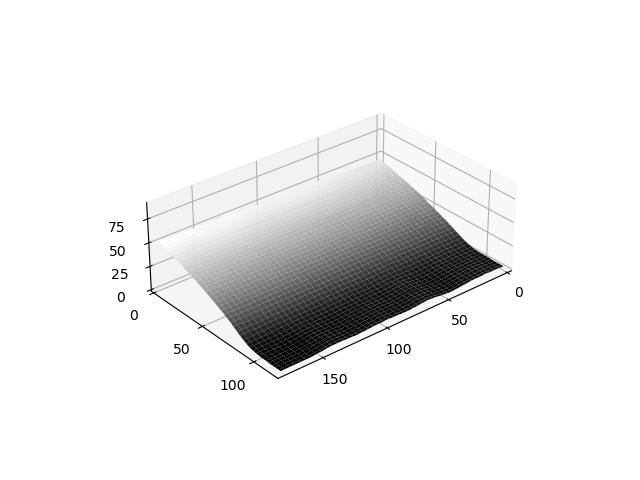
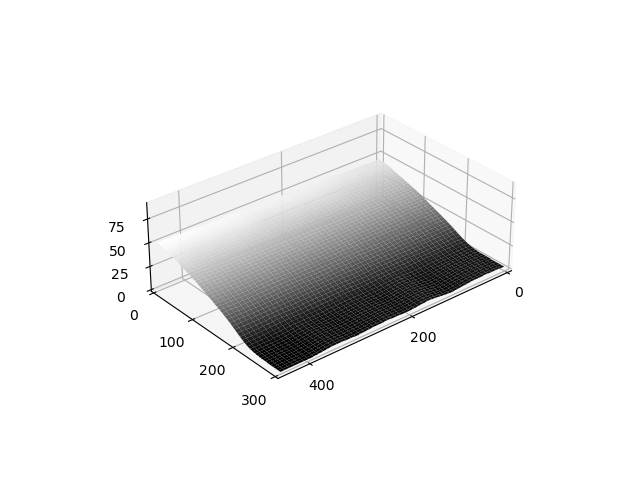
Updated 30

diff --git a/slope_test.py b/slope_test.py
@@ -165,7 +165,7 @@ def main():
     # z = cv2.resize(z, dsize=(576,384), interpolation=cv2.INTER_AREA)
     # scale = 1 / 19.2
     # z = cv2.resize(z * scale, dsize=(576 * scale, 384 * scale), interpolation=cv2.INTER_AREA)
-    z = cv2.resize(z, dsize=(180, 120), interpolation=cv2.INTER_AREA)
+    # z = cv2.resize(z, dsize=(180, 120), interpolation=cv2.INTER_AREA)
 
 
     fig = plt.figure()
